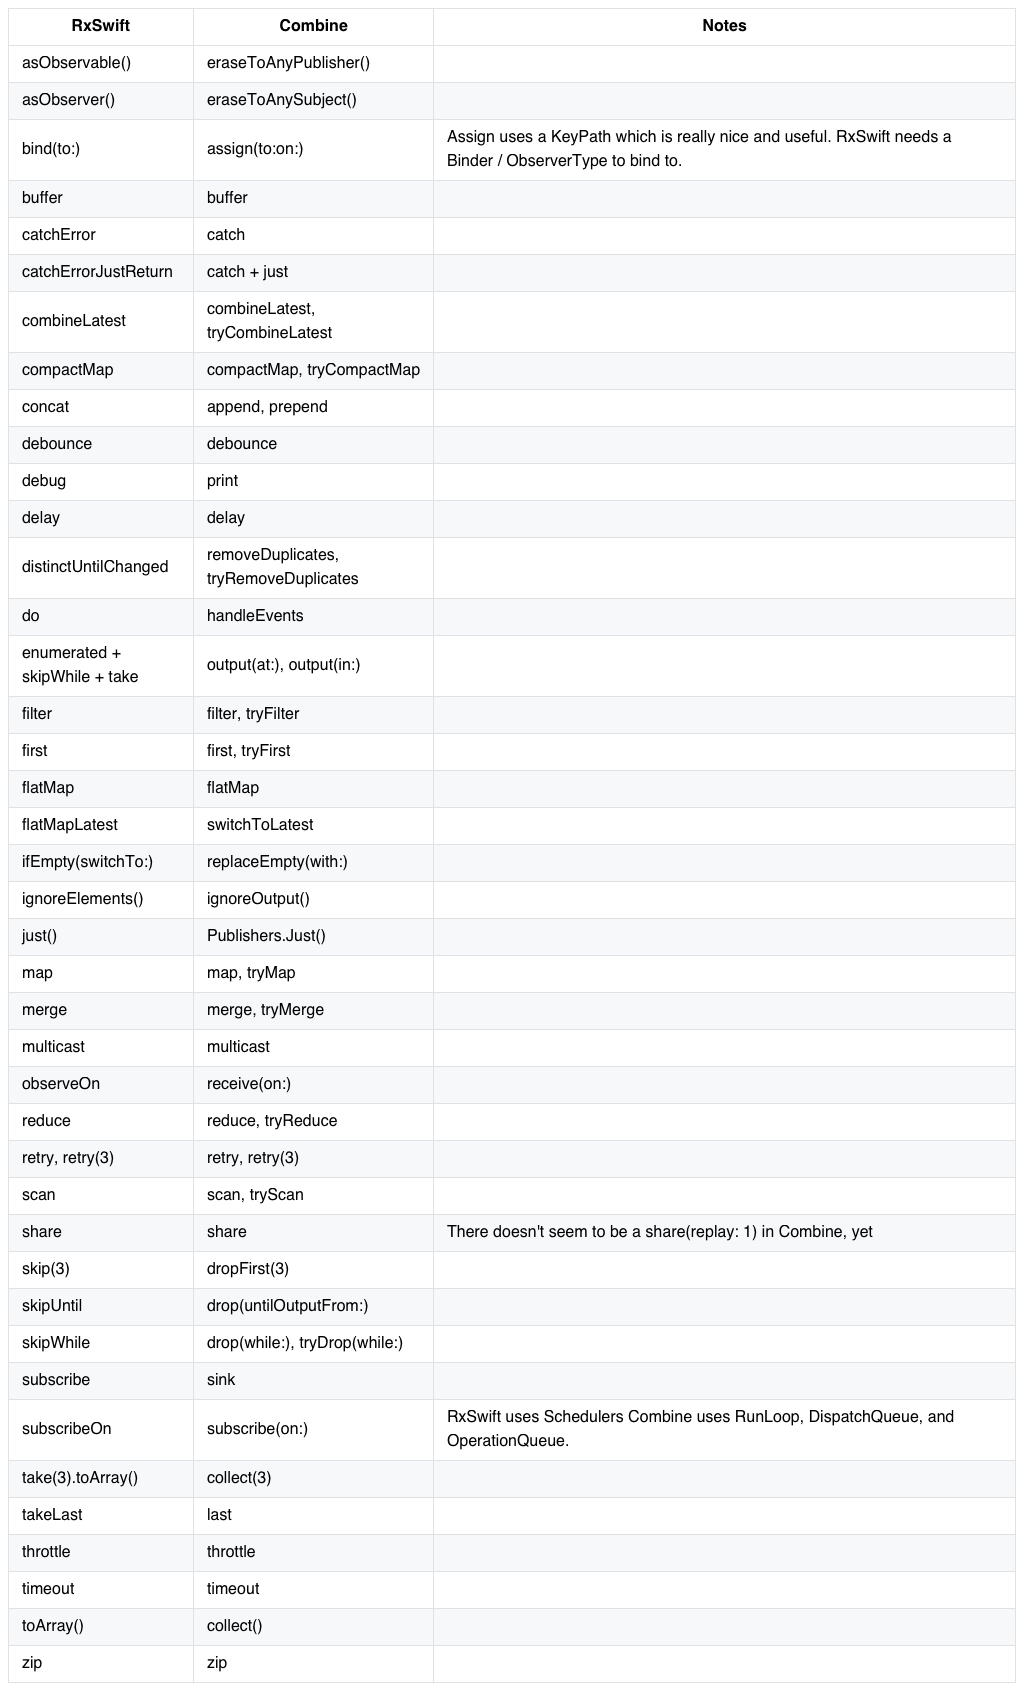
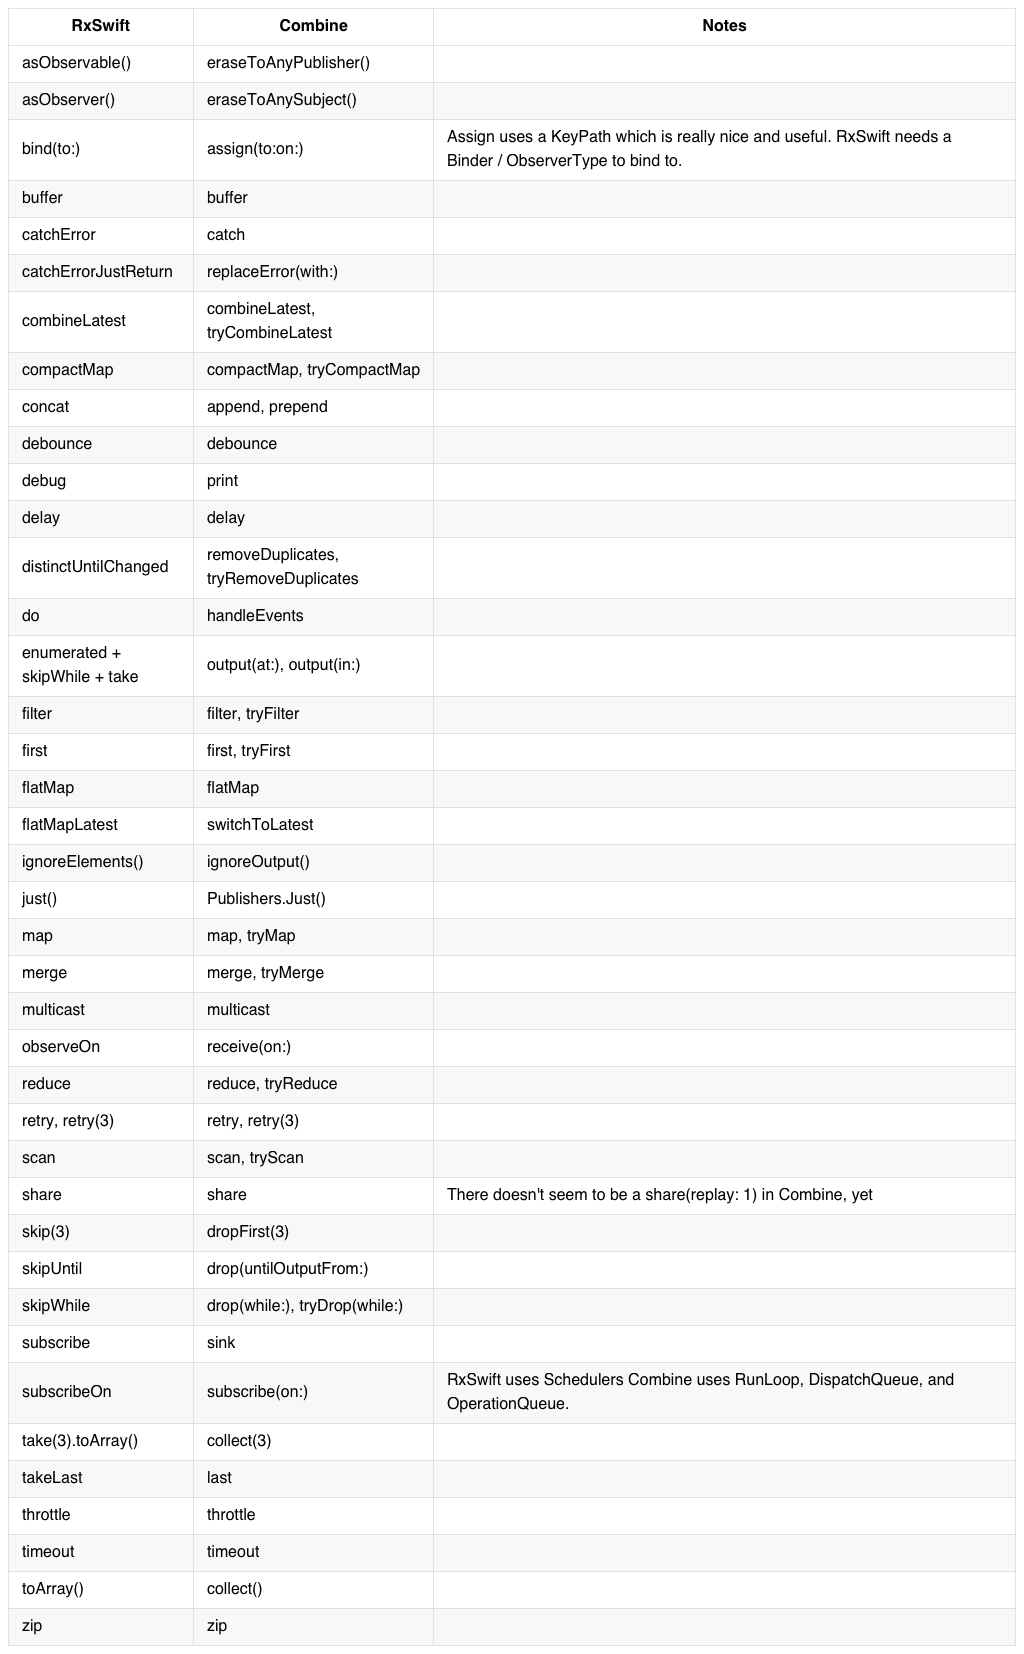
add replaceError(with:) for catchErrorJustReturn

diff --git a/README.md b/README.md
@@ -40,7 +40,7 @@ It's based on the following blog post: [https://medium.com/gett-engineering/rxsw
 | bind(to:)                     | `assign(to:on:)`                      | Assign uses a KeyPath which is really nice and useful. RxSwift needs a Binder / ObserverType to bind to. |
 | buffer                        | buffer                                |                                                                                                          |
 | catchError                    | catch                                 |                                                                                                          |
-| catchErrorJustReturn          | catch + just                          |                                                                                                          |
+| catchErrorJustReturn          | replaceError(with:)                   |                                                                                                          |
 | combineLatest                 | combineLatest, tryCombineLatest       |                                                                                                          |
 | compactMap                    | compactMap, tryCompactMap             |                                                                                                          |
 | concat                        | append, prepend                       |                                                                                                          |
@@ -54,7 +54,6 @@ It's based on the following blog post: [https://medium.com/gett-engineering/rxsw
 | first                         | first, tryFirst                       |                                                                                                          |
 | flatMap                       | flatMap                               |                                                                                                          |
 | flatMapLatest                 | switchToLatest                        |                                                                                                          |
-| ifEmpty(switchTo:)            | replaceEmpty(with:)                   |                                                                                                          |
 | ignoreElements()              | ignoreOutput()                        |                                                                                                          |
 | just()                        | Publishers.Just()                     |                                                                                                          |
 | map                           | map, tryMap                           |                                                                                                          |
